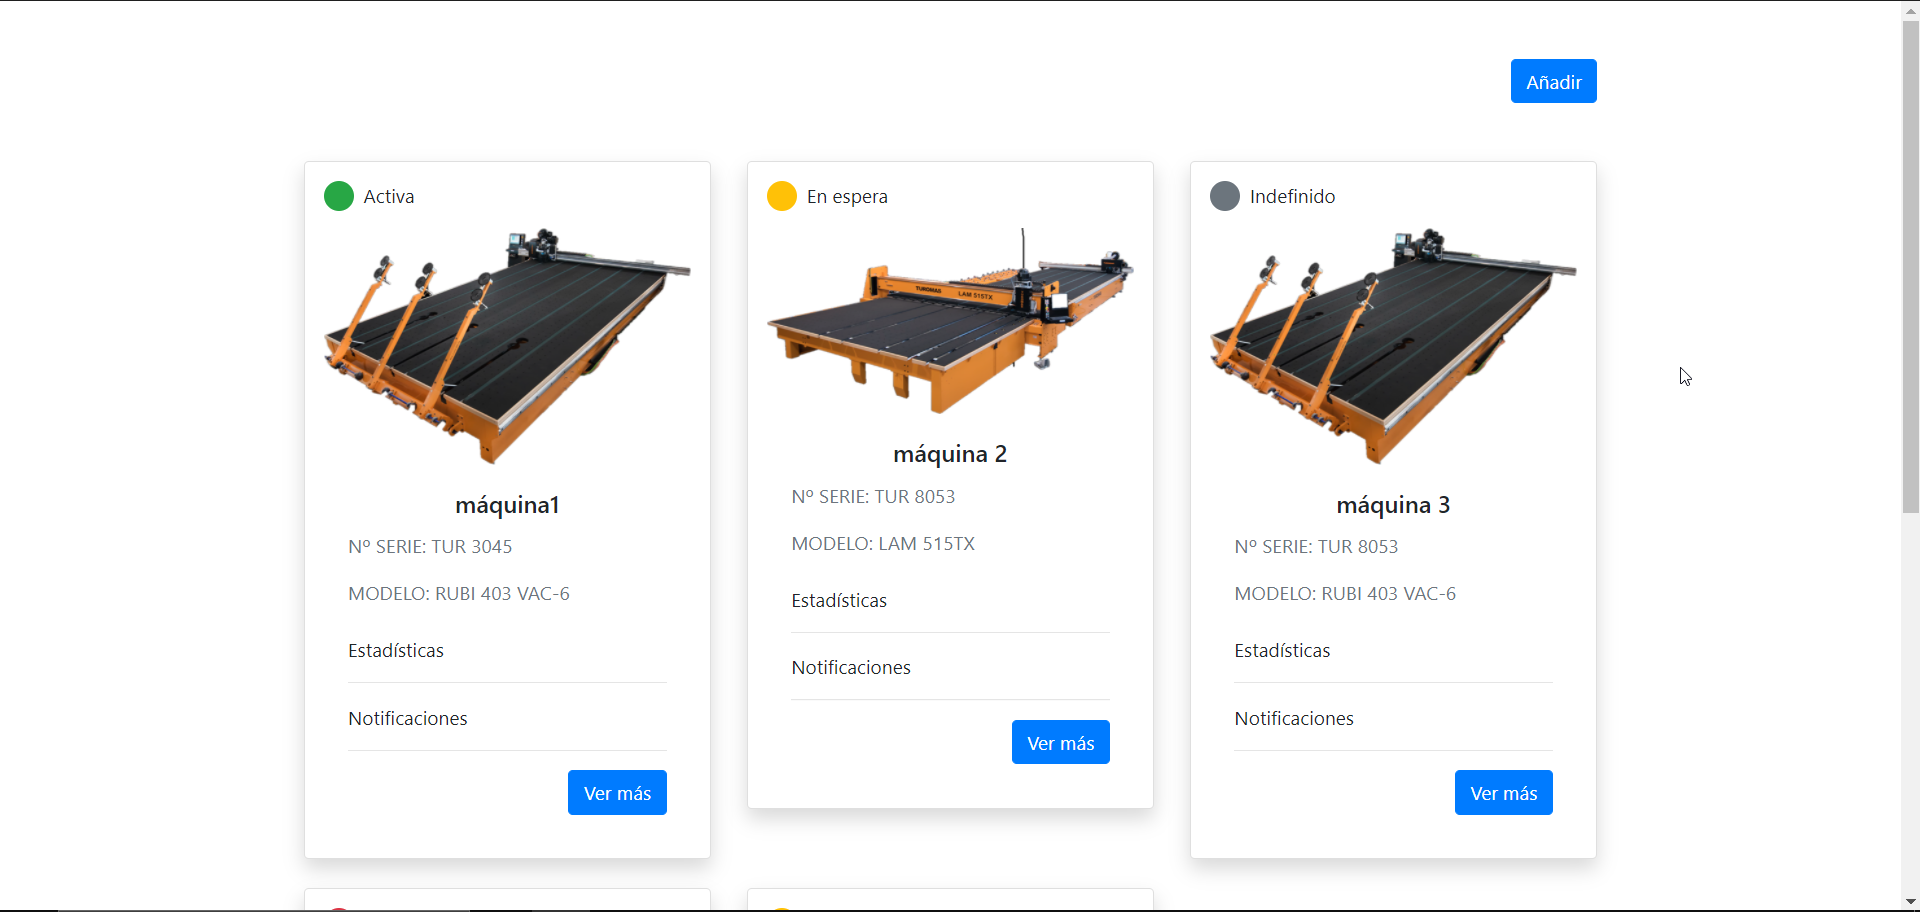
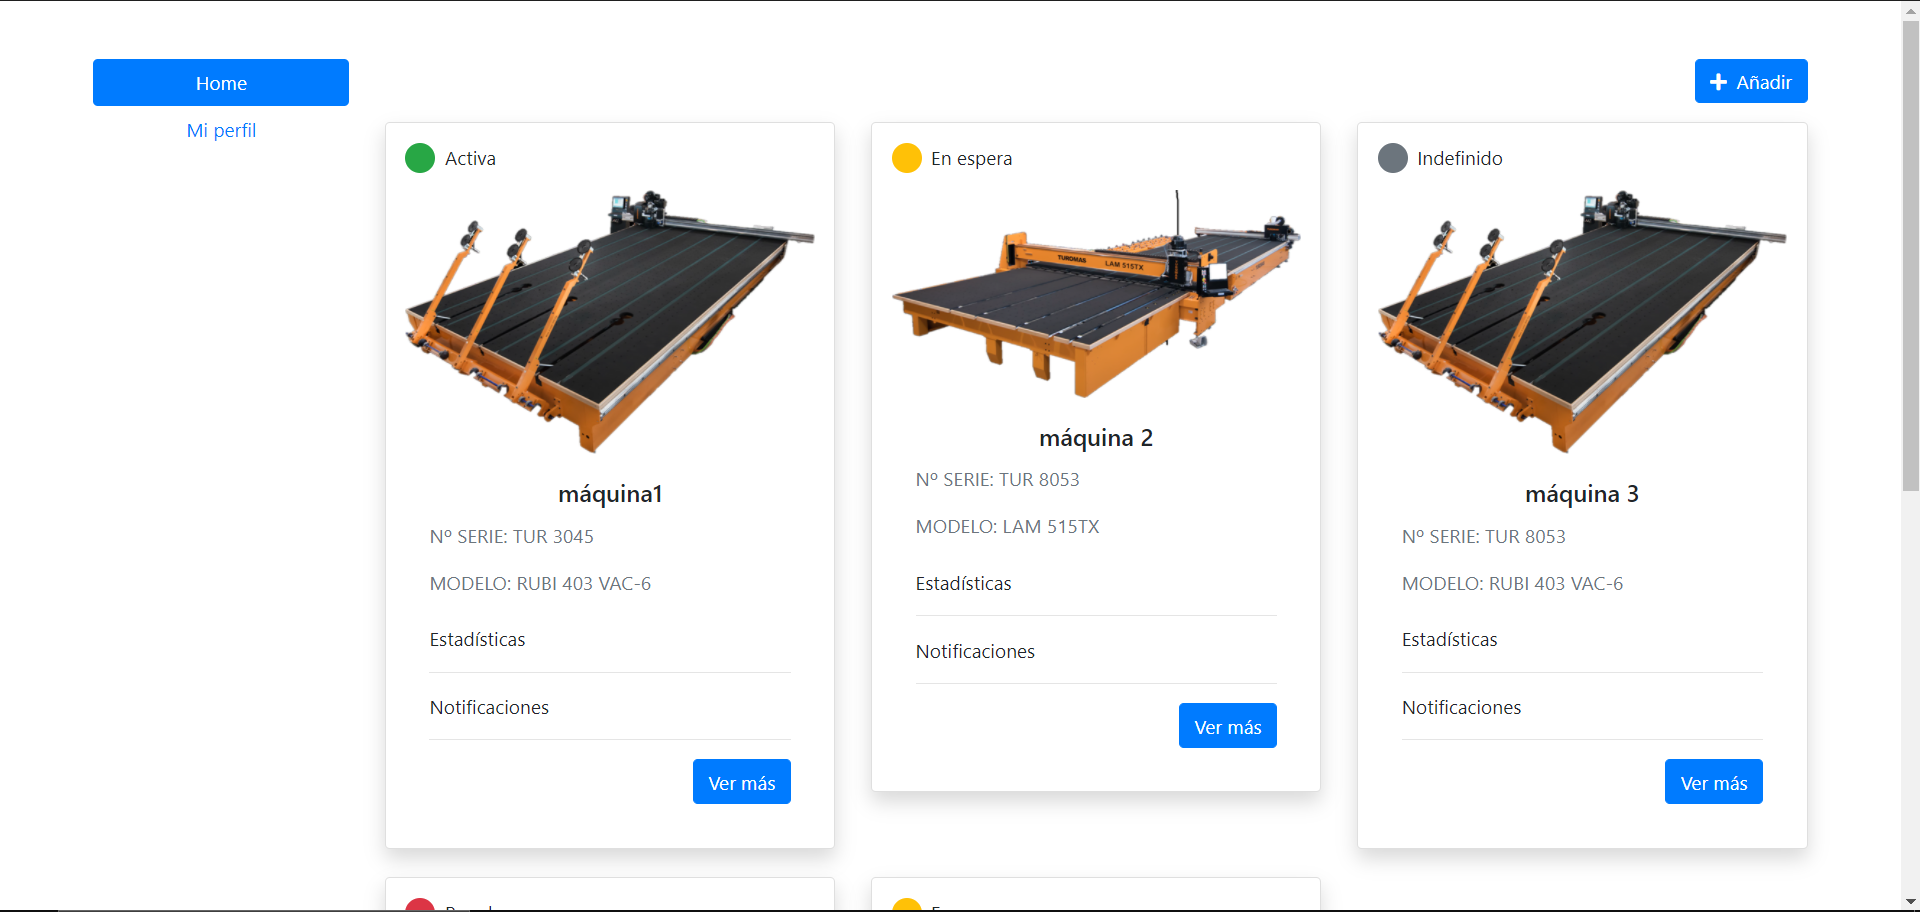
refactor: added pages specialization, home component and some improves on dashboard

diff --git a/src/app/machines/machines.module.ts b/src/app/machines/machines.module.ts
@@ -2,7 +2,11 @@ import { NgModule } from '@angular/core';
 import { CommonModule } from '@angular/common';
 import { MachinesRoutingModule } from './machines-routing.module';
 
-// Componentes
+// Pages
+import { HomeComponent } from './pages/home/home.component';
+import { MachineComponent } from './pages/machine/machine.component';
+
+// Components
 import { DashboardComponent } from './components/dashboard/dashboard.component';
 import { MachineCardComponent } from './components/machine-card/machine-card.component';
 
@@ -13,8 +17,10 @@ import { MockMachines } from './repositories/mock-machines.repository';
 
 @NgModule({
   declarations: [
+    HomeComponent,
     DashboardComponent,
-    MachineCardComponent
+    MachineCardComponent,
+    MachineComponent
   ],
   imports: [
     CommonModule,

diff --git a/src/app/machines/components/machine-card/machine-card.component.ts b/src/app/machines/components/machine-card/machine-card.component.ts
@@ -11,10 +11,10 @@ export class MachineCardComponent {
 
   constructor() { }
 
-  public getStatusClass(machine: Machine): object {
-    return {'bg-success': machine.status === MachineStatus.Activa,
-            'bg-warning': machine.status === MachineStatus.En_espera,
-            'bg-danger': machine.status === MachineStatus.Parada,
-            'bg-secondary': machine.status === MachineStatus.Indefinido};
+  public getStatusStyle(status: MachineStatus): object {
+    return {'bg-success': status === MachineStatus.Activa,
+            'bg-warning': status === MachineStatus.En_espera,
+            'bg-danger': status === MachineStatus.Parada,
+            'bg-secondary': status === MachineStatus.Indefinido};
   }
 }

diff --git a/src/app/machines/components/dashboard/dashboard.component.html b/src/app/machines/components/dashboard/dashboard.component.html
@@ -1,12 +1,11 @@
-<div class="container-fluid mt-5">
-  <div class="text-right">
-    <button type="button" class="btn btn-primary mb-5">Añadir</button>
+<div class="col">
+  <div class="row flex-row-reverse">
+    <button type="button" class="btn btn-primary mb-3"><i class="fas fa-plus mr-2"></i>Añadir</button>
   </div>
 
-  <div class="row row-cols-1 row-cols-md-3">
-    <app-machine-card *ngFor="let machine of machines" [machine]="machine"></app-machine-card>
+  <div class="row">
+    <div class="row row-cols-1 row-cols-md-3">
+      <app-machine-card *ngFor="let machine of machines" [machine]="machine"></app-machine-card>
+    </div>
   </div>
 </div>
-
-
-<router-outlet></router-outlet>

diff --git a/src/app/machines/components/machine-card/machine-card.component.html b/src/app/machines/components/machine-card/machine-card.component.html
@@ -2,7 +2,7 @@
   <div class="card h-100 p-3 shadow bg-white rounded">
     <div class="col">
       <div class="row">
-        <div [ngClass]="getStatusClass(machine)" class="circle"></div>
+        <div [ngClass]="getStatusStyle(machine.status)" class="circle"></div>
         <p class="ml-2">{{machine.status}}</p>
       </div>
 
@@ -26,7 +26,7 @@
       <hr />
 
       <div class="text-right">
-        <button type="button" class="btn btn-primary">Ver más</button>
+        <button [routerLink]="['/machines/', machine.id]" type="button" class="btn btn-primary">Ver más</button>
       </div>
     </div>
   </div>

diff --git a/src/app/machines/machines-routing.module.ts b/src/app/machines/machines-routing.module.ts
@@ -1,11 +1,17 @@
 import { NgModule } from '@angular/core';
 import { RouterModule, Routes } from '@angular/router';
+import { HomeComponent } from './pages/home/home.component';
 import { DashboardComponent } from './components/dashboard/dashboard.component';
+import { MachineComponent } from './pages/machine/machine.component';
 
 const routes: Routes = [
   {
     path: '',
-    component: DashboardComponent
+    component: HomeComponent,
+    children: [
+      { path: '', component: DashboardComponent },
+      { path: ':id', component: MachineComponent }
+    ]
   }
 ];
 

diff --git a/src/index.html b/src/index.html
@@ -23,6 +23,7 @@
   <script src="https://cdn.jsdelivr.net/npm/bootstrap@4.5.3/dist/js/bootstrap.min.js"
     integrity="sha384-w1Q4orYjBQndcko6MimVbzY0tgp4pWB4lZ7lr30WKz0vr/aWKhXdBNmNb5D92v7s"
     crossorigin="anonymous"></script>
+  <script src="https://kit.fontawesome.com/4ec8e7ab5d.js" crossorigin="anonymous"></script>
 </body>
 
 </html>

diff --git a/src/app/machines/pages/home/home.component.html b/src/app/machines/pages/home/home.component.html
@@ -1,0 +1,12 @@
+<div class="row m-5">
+  <div class="col-sm-2">
+    <nav class="nav nav-pills nav-fill flex-column">
+      <a class="nav-link active" href="#">Home</a>
+      <a class="nav-link" href="#">Mi perfil</a>
+    </nav>
+  </div>
+
+  <div class="col-sm-10">
+    <router-outlet></router-outlet>
+  </div>
+</div>

diff --git a/src/app/machines/pages/machine/machine.component.ts b/src/app/machines/pages/machine/machine.component.ts
@@ -1,0 +1,14 @@
+import { Component, OnInit } from '@angular/core';
+
+@Component({
+  selector: 'app-machine',
+  templateUrl: './machine.component.html'
+})
+export class MachineComponent implements OnInit {
+
+  constructor() { }
+
+  ngOnInit(): void {
+  }
+
+}

diff --git a/src/app/machines/pages/home/home.component.ts b/src/app/machines/pages/home/home.component.ts
@@ -1,0 +1,11 @@
+import { Component } from '@angular/core';
+
+@Component({
+  selector: 'app-home',
+  templateUrl: './home.component.html'
+})
+export class HomeComponent {
+
+  constructor() { }
+
+}

diff --git a/src/app/app.component.html b/src/app/app.component.html
@@ -1,3 +1,3 @@
-<div class="container">
+<div class="container-fluid">
   <router-outlet></router-outlet>
 </div>

diff --git a/src/app/machines/pages/machine/machine.component.html b/src/app/machines/pages/machine/machine.component.html
@@ -1,0 +1,1 @@
+<p>machine works!</p>
